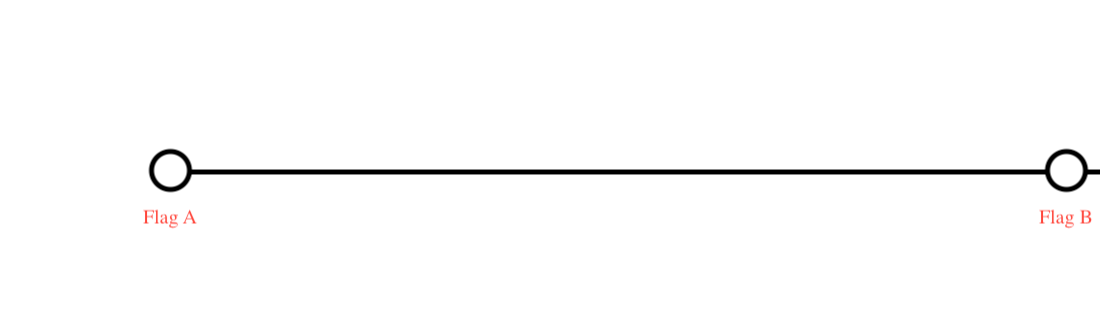
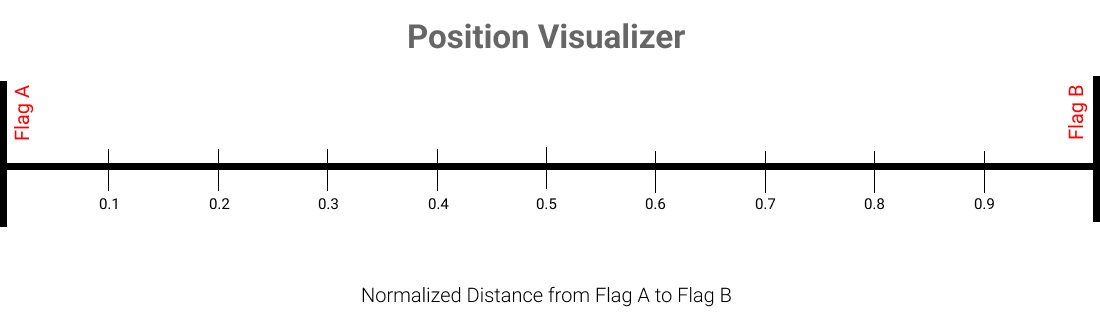
Fix Position Visualizer bugs and allow for IPAD config

diff --git a/src/components/ClickableImage.tsx b/src/components/ClickableImage.tsx
@@ -26,15 +26,15 @@ const useStyles = makeStyles({
   },
   image: {
     borderRadius: 4,
-    boxShadow: "0px 2px 6px rgba(0, 0, 0, 0.3)",
-    width: "70vw",
+    // boxShadow: "0px 2px 6px rgba(0, 0, 0, 0.3)",
+    // width: "70vw",
     display: "block",
     margin: "auto",
   },
   imageDecision: {
     borderRadius: 4,
-    boxShadow: "0px 2px 6px rgba(0, 0, 0, 0.3)",
-    width: "45vw",
+    // boxShadow: "0px 2px 6px rgba(0, 0, 0, 0.3)",
+    width: "41vw",
     display: "block",
     margin: "auto",
   },
@@ -87,11 +87,13 @@ export default function ClickableImage({
   // height if it is run immediately, which would cause all the PositionIndicator labels to initially show up at the top
   // of the ClickableImage until another render.
   const [height, setHeight] = useState(0);
+  const [imgWidth, setImgWidth] = useState(0);
 
   const mid = height - height / 2;
   setTimeout(() => {
     if (imgEl) {
       setHeight(imgEl.getBoundingClientRect().height);
+      setImgWidth(imgEl.getBoundingClientRect().width);
     }
   }, 300);
   // This adjusts the PositionIndicator labels for when the window size changes
@@ -99,6 +101,7 @@ export default function ClickableImage({
     function timer() {
       if (imgEl) {
         setHeight(imgEl.getBoundingClientRect().height);
+        setImgWidth(imgEl.getBoundingClientRect().width);
       }
     }
     window.addEventListener("resize", timer);
@@ -117,7 +120,7 @@ export default function ClickableImage({
     // imgEl.getBoundingClientRect().x gets the x coordinate of the left boundary of the image
     // imgEl.getBoundingClientRect().y gets the y coordinate of the top boundary of the image
     // imgEl.getBoundingClientRect().height gets the height of the image
-    const { x, y, height } = imgEl!.getBoundingClientRect();
+    const { x, y, height, width } = imgEl!.getBoundingClientRect();
 
     // offsetX and offsetY represent the coordinates of the mouse click position with the whitespace to the left and top
     // and of the image (between the image and the edges of the viewport) removed
@@ -220,7 +223,12 @@ export default function ClickableImage({
         return (
           <PositionIndicator
             key={sampleIdx}
-            left={((NORMALIZED_FLAGATOB) * (index / INDEX_LENGTH) + NORMALIZED_STRAT) *  (height / NORMALIZED_HEIGHT)}
+            left={
+              (index / INDEX_LENGTH) * (imgWidth - 1)
+              // (NORMALIZED_FLAGATOB * (index / INDEX_LENGTH) +
+              //   NORMALIZED_STRAT) *
+              // (height / NORMALIZED_HEIGHT)
+            }
             top={height - height / 2}
             rowIndex={sampleIdx}
             isHovered={isHovered}
@@ -233,7 +241,11 @@ export default function ClickableImage({
       {
         <PositionIndicatorRhex
           left={
-            ((NORMALIZED_FLAGATOB) * (samples[samples.length - 1].index / INDEX_LENGTH) + NORMALIZED_STRAT) *  (height / NORMALIZED_HEIGHT)
+            (samples[samples.length - 1].index / INDEX_LENGTH) * (imgWidth - 1)
+            // (NORMALIZED_FLAGATOB *
+            //   (samples[samples.length - 1].index / INDEX_LENGTH) +
+            //   NORMALIZED_STRAT) *
+            // (height / NORMALIZED_HEIGHT)
           }
           top={height - height / 2 - 30}
         />
@@ -245,7 +257,12 @@ export default function ClickableImage({
             key={
               suggestion.index + suggestion.normOffsetX + suggestion.normOffsetY
             }
-            left={((NORMALIZED_FLAGATOB) * (suggestion.index / INDEX_LENGTH) + NORMALIZED_STRAT) *  (height / NORMALIZED_HEIGHT)}
+            left={
+              (suggestion.index / INDEX_LENGTH) * (imgWidth - 1)
+              // (NORMALIZED_FLAGATOB * (suggestion.index / INDEX_LENGTH) +
+              //   NORMALIZED_STRAT) *
+              // (height / NORMALIZED_HEIGHT)
+            }
             top={height - height / 2}
             rowIndex={rowIndex}
             isHovered={suggestion.isHovered}

diff --git a/src/styles/decision.scss b/src/styles/decision.scss
@@ -64,7 +64,7 @@
             background-color: $lightGray;
             box-shadow: 0px 2px 6px rgba(0, 0, 0, 0.3);
             height: 100%;
-            width: 47vw;
+            width: 100%;
 
             .collectionRightPanel {
                 padding-top: 2vh;
@@ -174,8 +174,11 @@
                 box-shadow: 0px 2px 6px rgba(0, 0, 0, 0.3);
             }
             .clickableImageContainer {
-                width: min-content;
+                background-color: white;
+                padding: 2vw;
+                width:max-content;
                 margin: auto;
+                box-shadow: 0px 2px 6px rgba(0, 0, 0, 0.3);
             }
             .buttonList {
                 text-align: center;
@@ -210,8 +213,8 @@
 
             .user-feedback {
                 width: 90%;
-                height: 39vh;
-                max-height: 50vh;
+                // height: 39vh;
+                // max-height: 50vh;
                 padding-left: 2vh;
                 padding-right: 2vh;
                 padding-top: 1vh;

diff --git a/src/pages/decision.tsx b/src/pages/decision.tsx
@@ -755,7 +755,7 @@ export default function Main() {
       <ImgAlert open={!!showImgAlert} />
       <Tooltip title={userFeedbackState !== UserFeedbackState.TYPE_IN_NEW_LOCATION_DATA ? "" : <span style={clickableImageTipStyle}>{clickableImageTip}</span>} placement="bottom">
           <div className="clickableImageContainer">
-            <ClickableImage width={750} enabled={imgClickEnabled} addDataFunc={() => addDataToPlot()} setPopOver={setImgAlert} />  
+            <ClickableImage width={600} enabled={imgClickEnabled} addDataFunc={() => addDataToPlot()} setPopOver={setImgAlert} />  
           </div>
       </Tooltip>
       {/* <PositionChart /> */}
